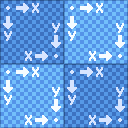
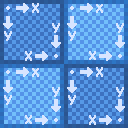
Update UV preview texture Improvement to mesh template generator

Changed region(s): [[0.0, 0.0, 1.0, 1.0]]

diff --git a/js/texturing/texture_generator.js b/js/texturing/texture_generator.js
@@ -1014,6 +1014,15 @@ const TextureGenerator = {
 							}
 						}
 					}
+					// ... or on the side
+					else if (Math.epsilon(face_group.normal[2], 0, 0.05)) {
+						let offset_x = (Math.ceil(max_x) - max_x) / 2;
+						for (let fkey in vertex_uvs) {
+							for (let vkey in vertex_uvs[fkey]) {
+								vertex_uvs[fkey][vkey][0] += offset_x;
+							}
+						}
+					}
 					// Or align right if face points to right side of model
 					else if ((face_group.normal[0] > 0) != (face_group.normal[2] < 0)) {
 						for (let fkey in vertex_uvs) {
